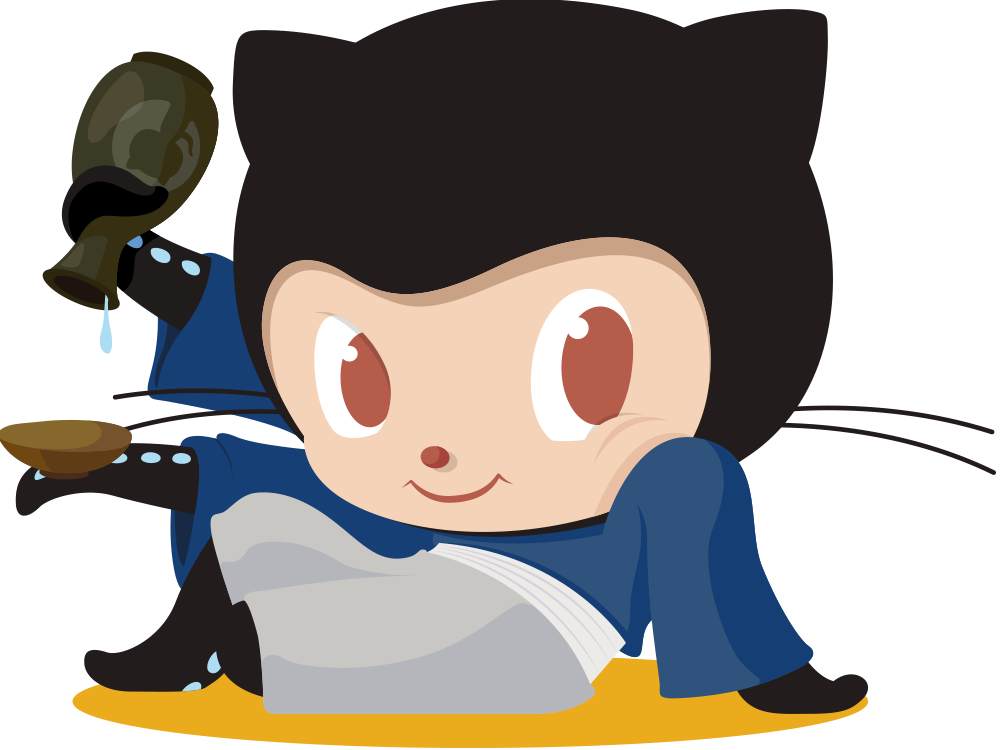
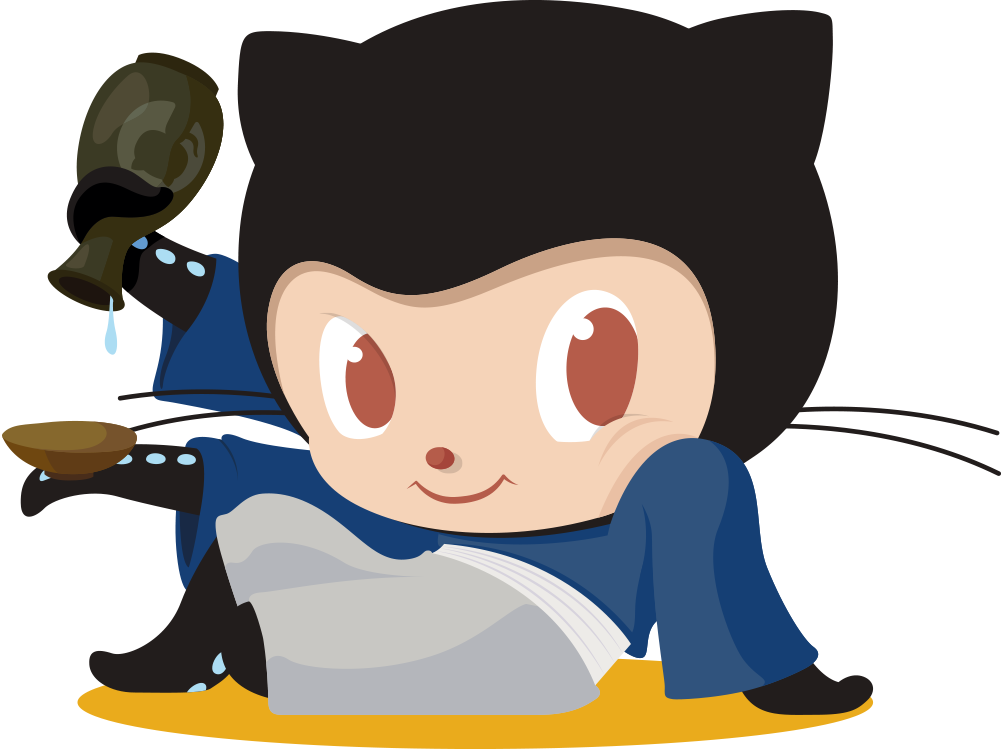
saketocatのサイズバランスを小さくする

diff --git a/source/assets/css/global/_header.sass b/source/assets/css/global/_header.sass
@@ -145,6 +145,8 @@ header
       @media #{$small}
         +box-sizing(border-box)
         position: relative
+      img
+        width: 75%
 
 
 #simple-menu
